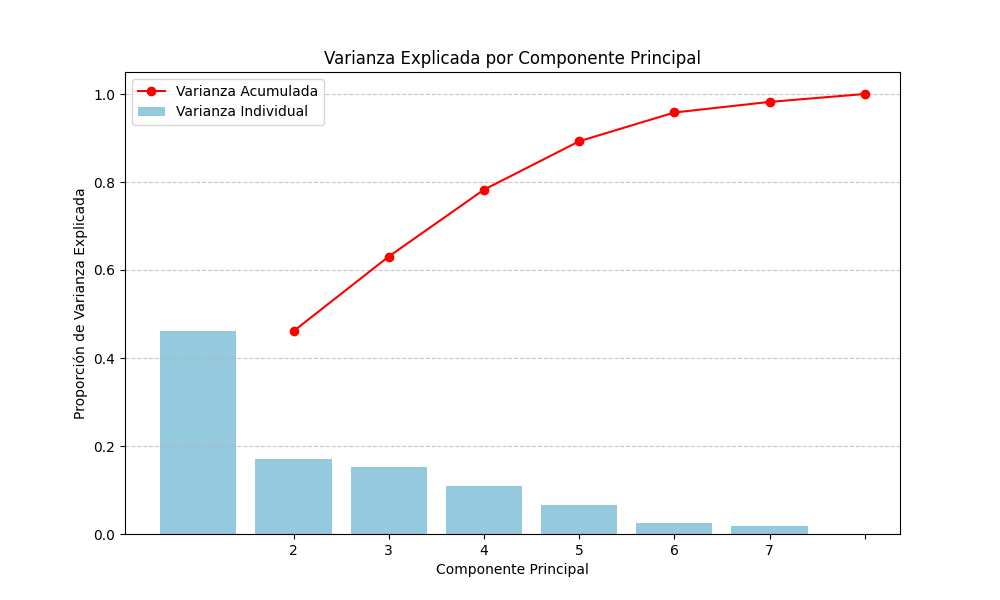
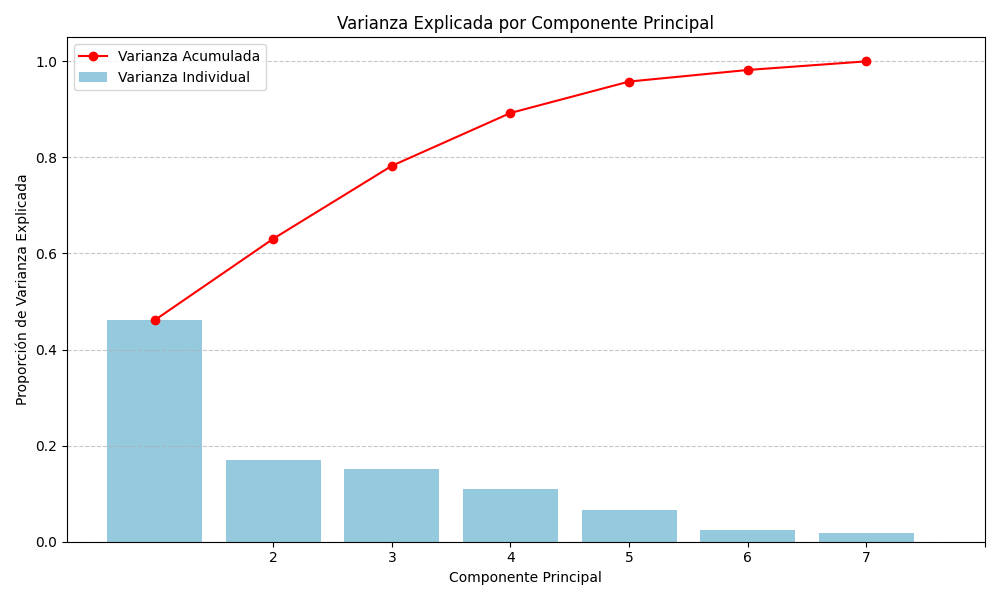
fix varianza

diff --git a/ej-obligatorio/ej-obligatorio.py b/ej-obligatorio/ej-obligatorio.py
@@ -46,24 +46,39 @@ def plot_country_rankings(scores, countries):
 
 def plot_explained_variance(pca):
     explained_variance_ratio = pca.explained_variance_ratio_
-    
     cumulative_variance = np.cumsum(explained_variance_ratio)
-    
-    components = range(1, len(explained_variance_ratio) + 1)
-    
+    components = np.arange(1, len(explained_variance_ratio) + 1)
+
     plt.figure(figsize=(10, 6))
-    
-    sns.barplot(x=list(components), y=explained_variance_ratio, color='skyblue', label='Varianza Individual')
-    
-    plt.plot(components, cumulative_variance, marker='o', linestyle='-', color='red', label='Varianza Acumulada')
-    
+
+    ax = sns.barplot(
+        x=components,
+        y=explained_variance_ratio,
+        color='skyblue',
+        label='Varianza Individual'
+    )
+
+    x_coords = [p.get_x() + p.get_width() / 2 for p in ax.patches]
+
+    plt.plot(
+        x_coords,
+        cumulative_variance,
+        marker='o',
+        linestyle='-',
+        color='red',
+        label='Varianza Acumulada'
+    )
     plt.title('Varianza Explicada por Componente Principal')
     plt.xlabel('Componente Principal')
     plt.ylabel('Proporción de Varianza Explicada')
     plt.xticks(components)
+    plt.ylim(0, 1.05)
     plt.legend()
     plt.grid(axis='y', linestyle='--', alpha=0.7)
+    plt.tight_layout()
     plt.show()
+
+
 
 def plot_biplot(scores, loadings, countries, features):
     plt.figure(figsize=(12, 12))
